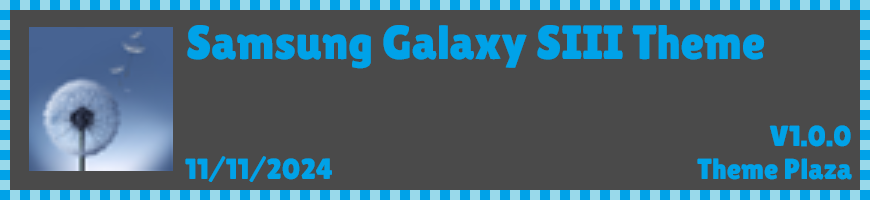
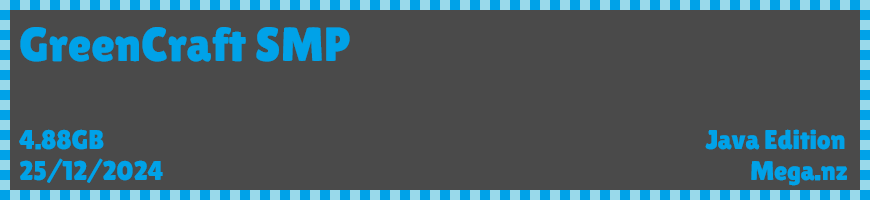
world downloads

Changed region(s): [[0.0, 0.12, 0.9, 0.9], [0.8069, 0.63, 0.9931, 0.75], [0.7759, 0.78, 0.9931, 0.93]]

diff --git a/downloads/worlds/CCSMP/cave.html b/downloads/worlds/CCSMP/cave.html
@@ -14,7 +14,7 @@
 
         body {
             font-family: 'Lilita One', cursive;
-            background: url('Green.png') no-repeat center center/cover;
+            background: url('Cave.png') no-repeat center center/cover;
             background-attachment: fixed;
             color: #00A2E8;
             min-height: 100vh;
@@ -314,17 +314,26 @@
     <div class="main-container">
         <!-- Left Section -->
         <div class="left-section">
-            <div class="title">GreenCraft SMP</div>
-            <div class="text">World Downloads for GreenCraft SMP<br>-Style: SMP, Nations (Factions) (GCSMP style) <br>-Seed: -139302583876377205 1.18+/Java <br><br>-Owner<br>Simbian<br>-Co-Owner<br>Flipswap, Bruhman1111<br>-Admin<br>Rat3589, ignas4 (Developer)<br>-Moderator<br>N/A<br>-Helper<br>Fascism.exe (Builder)<br>-Social Media staff<br>grumpdidit, Rat(Madi) (they did nothing)<br><br>ℹ Started July 26th 2024, Ending December 27th 2024<br><br><br><br></div>
+            <div class="title">CaveCraft SMP</div>
+            <div class="text">World downloads for CaveCraft SMP<br>-Style: SMP<br>-Seed:  -615932630066931 1.18+/Bedrock<br><br>-Owner<br>Simbian<br>-Co-Owner<br>Flipswap, Bruhman<br>-Legacy Discord Admin<br>Rat3589, LunaMcClain, CloseAndreiCamera87<br>-Legacy Realm Admin<br>Rat3589, DR PUG, CloseAndreiCamera87<br>-Senior Admin<br>N/A<br>-Admin<br>N/A<br>-Helper<br>Memi<br><br>ℹ : Started September 15th 2023, Ended October 22nd 2023<br>⚠ : Tiles Addon V5.1.3 or later is required for full experience, get it at Downloads > Addons > Tiles Addon<br><br><br><br></div>
         </div>
 
 
         <!-- Right Section -->
         <div class="right-section">
             <!-- Button 1 -->
-            <a class="button" style="background-image: url('31.png');" href="https://mega.nz/file/oPUBCbLb#mwHBB7sFIkXfyqF5D6UCDFJSmBXebrrvcDIn4nuT7-o"></a>
+            <a class="button" style="background-image: url('31.png');" href="https://mega.nz/file/selDVIpb#b1yKq49YkV1WJB6kxenPQikeBeTu5ObEG_r5VG2c7w0"></a>
             <!-- Button 2 -->
-            <a class="button" style="background-image: url('32.png');" href="https://mega.nz/file/4NlFEKJA#hQHqq_Fi5M9bwnPTAHo1HHauKiFYU-eCWReB7uFTsic"></a>
+            <a class="button" style="background-image: url('32.png');" href="https://mega.nz/file/cHszUADQ#5lRiDG9ei4Guptds27fvqN0_N4kVTUtm-dFs_YSGTKA"></a>
+            <a class="button" style="background-image: url('33.png');" href="https://mega.nz/file/db1iEKYR#PQmIJG6P1ago8NSm_T7nJnBfYZvqGL5A-px0b6cYsms"></a>
+            <a class="button" style="background-image: url('34.png');" href="https://mega.nz/file/tK8UwYwA#x2pxpwGcaKqJh_3ehh889GdIXBLowfJ4qYbHtJpp-vc"></a>
+            <a class="button" style="background-image: url('35.png');" href="https://mega.nz/file/IP00hRha#XQDUGx2ME7iStImUgA7w68A7bwSgF1ibPyjz_ObjPUs"></a>
+            <a class="button" style="background-image: url('36.png');" href="https://mega.nz/file/oDtAlCaD#4YBumGxsEdEBSc3zvorspC-sjweO6doZpJR3HecQvGg"></a>
+            <a class="button" style="background-image: url('37.png');" href="https://mega.nz/file/9TFkmbjA#h4f77nFHVzlarADLotqUvhlzDwsuHfZ3jzUvtBy2_BU"></a>
+            <a class="button" style="background-image: url('38.png');" href="https://mega.nz/file/9L92ECQQ#OA7ZWOFeB5uPSz5ZntsnAwXItDM-46W7Dmbpbh0X5BU"></a>
+            <a class="button" style="background-image: url('39.png');" href="https://mega.nz/file/4G8AiC7L#fvYh-9599OJf1kNatmZOVmyN85ITe_PQCcrWpUXwFIg"></a>
+            <a class="button" style="background-image: url('310.png');" href="https://mega.nz/file/IStSUYaB#e6d-GIQpIfR_sqIh-GGF97JKzEHgGY3rF7q74JbnAZE"></a>
+            <a class="button" style="background-image: url('311.png');" href="https://mega.nz/file/9HFjFAwJ#HTbkjOd6_p2cCqV7eJjC3FU7UHxdoDxbOycHy7a8Gsc"></a>
             <div class="title">More backups are available</div>
             <div class="text">Request other downloads in my discord server (find it in Link Tree)</div>
         </div>

diff --git a/downloads/worlds/worlds.html b/downloads/worlds/worlds.html
@@ -208,12 +208,12 @@
     </div>
     <!-- Button Grid -->
     <div class="button-grid">
-        <a class="button" style="background-image: url('DB1.png');"href="https://simbiantech.github.io/Site/downloads/themes/themes.html"></a>
-        <a class="button" style="background-image: url('DB2.png');"href="https://simbiantech.github.io/Site/downloads/themes/themes.html"></a>
-        <a class="button" style="background-image: url('DB3.png');"href="https://simbiantech.github.io/Site/downloads/themes/themes.html"></a>
-        <a class="button" style="background-image: url('DB4.png');"href="https://simbiantech.github.io/Site/downloads/themes/themes.html"></a>
-        <a class="button" style="background-image: url('DB5.png');"href="https://simbiantech.github.io/Site/downloads/themes/themes.html"></a>
-        <a class="button" style="background-image: url('DB6.png');"href="https://simbiantech.github.io/Site/downloads/themes/themes.html"></a>
+        <a class="button" style="background-image: url('DB1.png');"href="https://simbiantech.github.io/Site/downloads/worlds/GCSMP/projectgreen.html"></a>
+        <a class="button" style="background-image: url('DB2.png');"href="https://simbiantech.github.io/Site/downloads/worlds/CCSMP/cave.html"></a>
+       <!-- <a class="button" style="background-image: url('DB3.png');"href="https://simbiantech.github.io/Site/downloads/themes/themes.html"></a>-->
+       <!-- <a class="button" style="background-image: url('DB4.png');"href="https://simbiantech.github.io/Site/downloads/themes/themes.html"></a>-->
+       <!-- <a class="button" style="background-image: url('DB5.png');"href="https://simbiantech.github.io/Site/downloads/themes/themes.html"></a>-->
+       <!-- <a class="button" style="background-image: url('DB6.png');"href="https://simbiantech.github.io/Site/downloads/themes/themes.html"></a>-->
         
     </div>
 

diff --git a/downloads/downloads.html b/downloads/downloads.html
@@ -210,7 +210,7 @@
     <!-- Button Grid -->
     <div class="button-grid">
         <a class="button" style="background-image: url('DB1.png');"href="https://simbiantech.github.io/Site/downloads/themes/themes.html"></a>
-        <!--<button class="button" style="background-image: url('DB2.png');"></button>-->
+        <a class="button" style="background-image: url('DB2.png');"href="https://simbiantech.github.io/Site/downloads/worlds/worlds.html"></a>
         <!--<button class="button" style="background-image: url('DB3.png');"></button>-->
         <!--<button class="button" style="background-image: url('DB4.png');"></button>-->
         <!--<button class="button" style="background-image: url('DB5.png');"></button>-->
